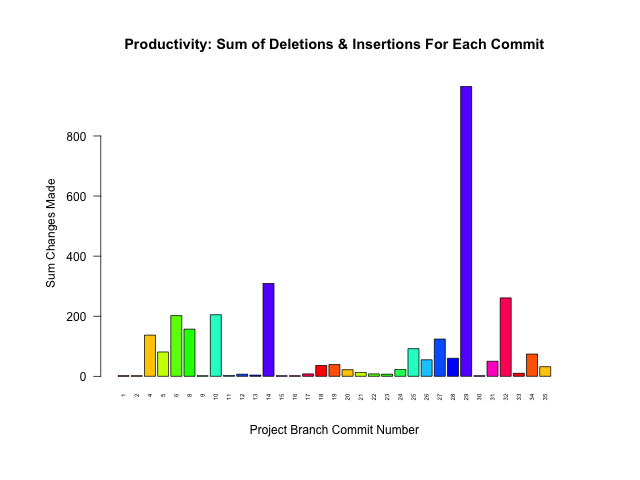
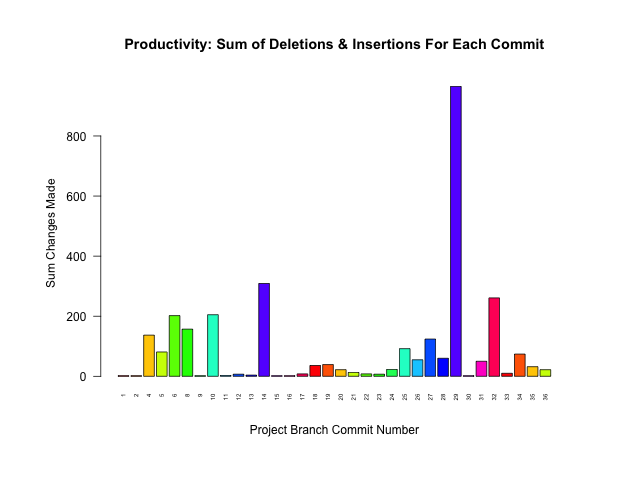
COMMIT #92

diff --git a/README.md b/README.md
@@ -16,8 +16,8 @@ ProjectName::BranchName.data
 
 Project Name | Last Updated | Number of Commits
 :---|:---|:---
-FASTQ_examiner_project                   |  2023-03-07  |  35
-commit_tracker_project                   |  2023-03-06  |  90
+FASTQ_examiner_project                   |  2023-03-08  |  36
+commit_tracker_project                   |  2023-03-07  |  91
 minishell_project                        |  2023-02-03  |  67
 ft_printf_project                        |  2023-01-27  |  36
 test_non-fastforward_merge-push_project  |  2023-01-27  |  15
